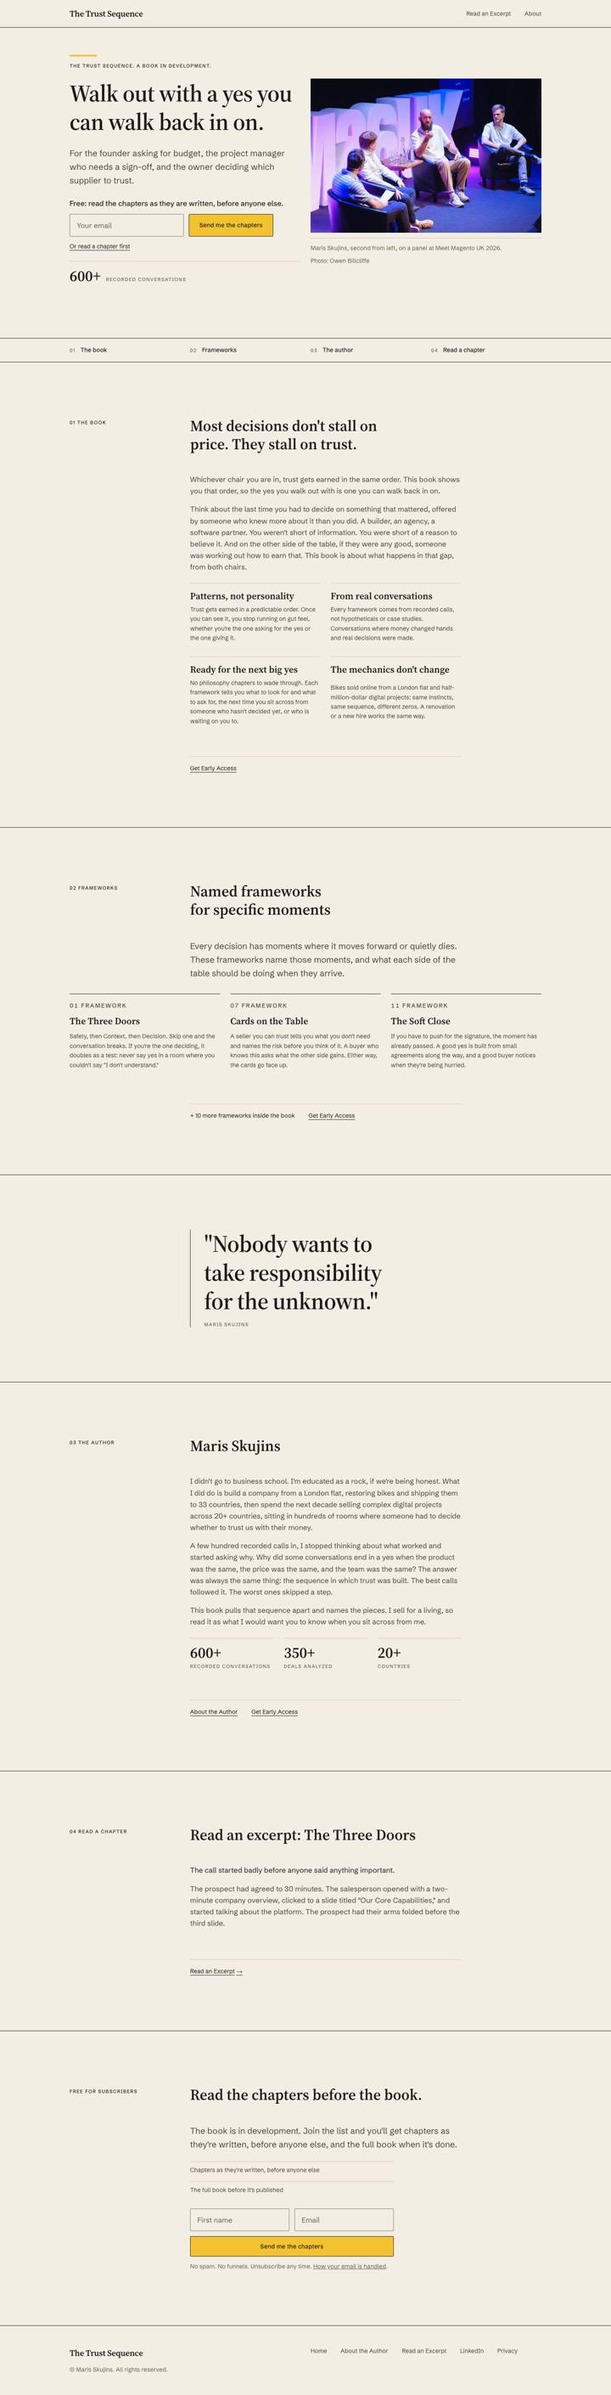
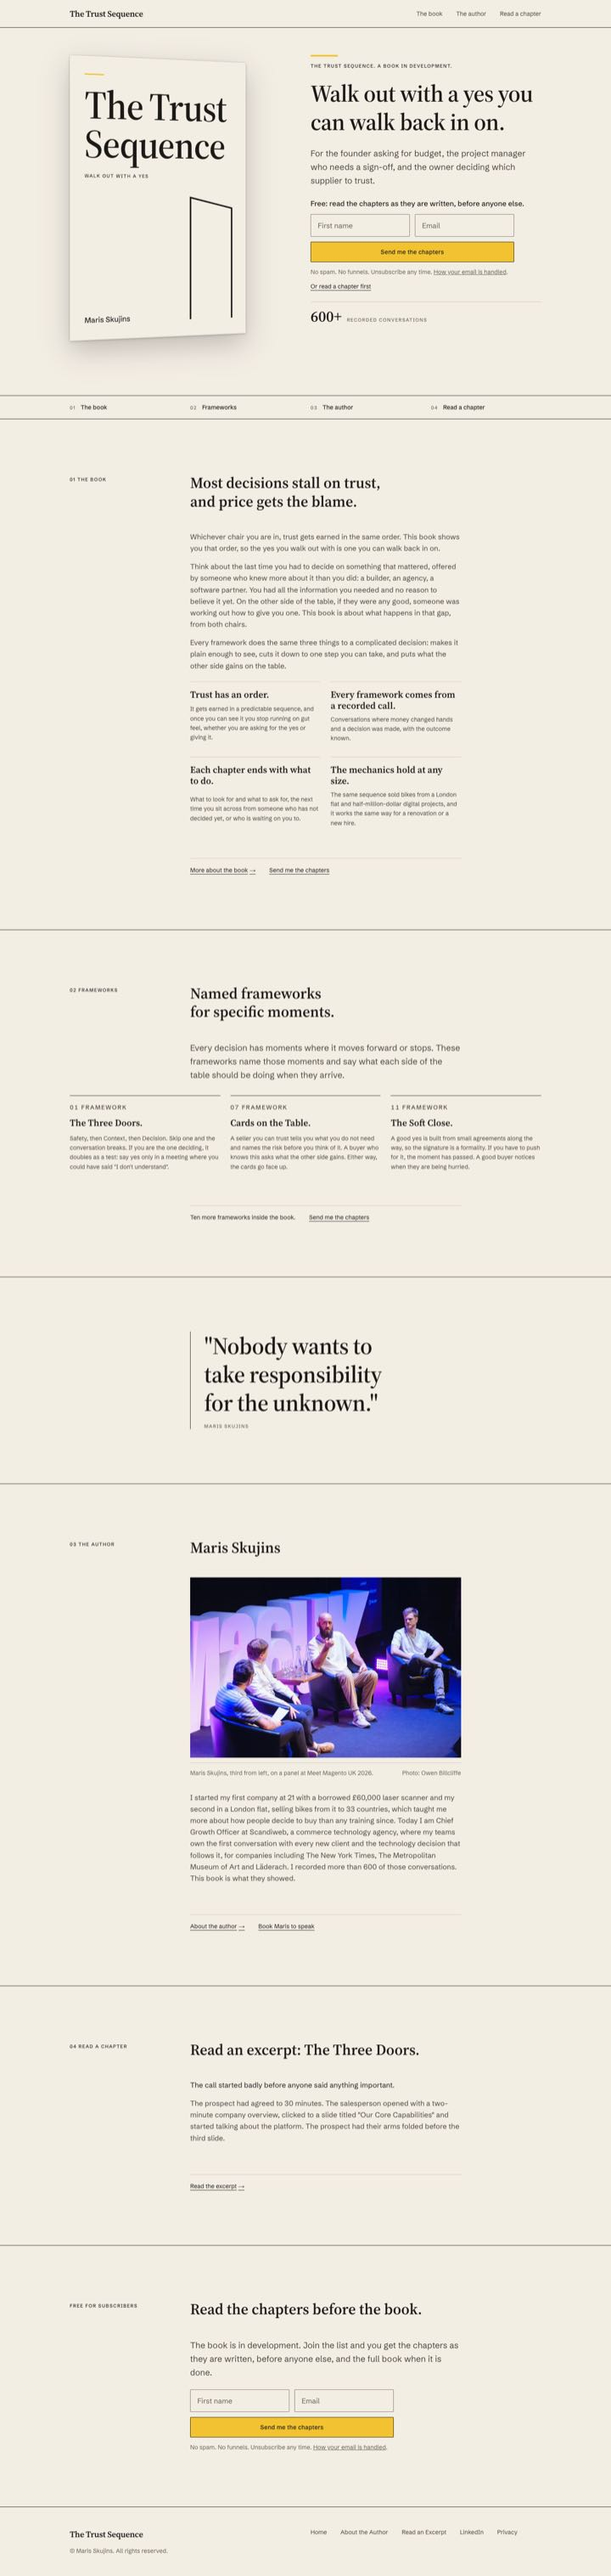
Brandbook and README for the cover; PR screenshots
The brandbook's cover placeholder becomes the cover's spec, with the
two exceptions it needs (the ink ground inside the OG image and the
LinkedIn post, and the shadow under the 3D cover) and the new column
spans. README: how to change the cover. Home screenshots updated,
book page screenshots added.

diff --git a/design/brandbook.md b/design/brandbook.md
@@ -28,7 +28,7 @@ References: Monocle magazine and Danish design. Not the old-school author-site l
 
 Every text colour passes WCAG AA (4.5:1) on paper and on paper-alt. Field borders pass the 3:1 rule for interface parts.
 
-**The accent is signal yellow, used for two things only:** the primary button and one rule (4 by 64 px) above the first label on a page. Yellow on cream is low in contrast, so the button always carries a 1 px ink border, which gives it a visible edge (15:1) and a printed look. The label on the button is ink. The accent never colours text, links, icons, backgrounds or a second kind of button. A page may repeat the primary button where a second form appears (the hero and the foot of the page), never twice in one view.
+**The accent is signal yellow, used for two things only:** the primary button and one rule (4 by 64 px) above the first label on a page. Yellow on cream is low in contrast, so the button always carries a 1 px ink border, which gives it a visible edge (15:1) and a printed look. The label on the button is ink. The accent never colours text, links, icons, backgrounds or a second kind of button. The book cover carries its own accent rule; on a page the cover is an object, like a photograph, so its rule does not count as the page's one. A page may repeat the primary button where a second form appears (the hero and the foot of the page), never twice in one view.
 
 ## Type
 
@@ -69,7 +69,7 @@ Headlines in sentence case. Labels are the only capitals. No decorative italics;
 
 Breakpoints are 600, 960 and 1280 px. They are the only literal pixel values allowed outside `tokens.css`, because CSS cannot read variables inside media queries.
 
-Standard column spans from 960 px: section label 1 to 3, section headline and main column 4 to 10, hero text 1 to 6, hero photo 7 to 12, prose 3 to 9. Mobile first: below 960 everything spans the full width in reading order, which is decided per section (text before photo in the hero, labels before content).
+Standard column spans from 960 px: section label 1 to 3, section headline and main column 4 to 10, home hero cover 1 to 5 and copy 7 to 12, page-head text 1 to 6 and photo 7 to 12, book page cover 1 to 3 beside the main column, prose 3 to 9. Mobile first: below 960 everything spans the full width in reading order, which is decided per section (cover before copy in the home hero, text before photo in a page head, labels before content). The cover is the one exception to full width: two of four columns on a phone, three of eight from 600 px, so it and the form both fit in the first screen and a half.
 
 Nothing is centred by default. Centre only by decision.
 
@@ -100,6 +100,7 @@ Current photograph: Meet Magento UK 2026, file 268, cropped above the event logo
 Caption: "Maris Skujins, third from left, on a panel at Meet Magento UK 2026."
 Credit: "Photo: Owen Billcliffe" (from the file's metadata).
 Files: `assets/meet-magento-uk-2026-panel-3x2.*` (3:2) and `assets/meet-magento-uk-2026-panel.*` (16:9).
+Used in section 03 The author on the home page and at the top of the about page.
 
 ## Components
 
@@ -120,6 +121,8 @@ Files: `assets/meet-magento-uk-2026-panel-3x2.*` (3:2) and `assets/meet-magento-
 **Framework card.** No box. Ink rule on top, "07 Framework" as a label with the book's own number, the name in the serif, the description at `--size-small` in ink soft. Three across from 600 px.
 
 **Quote.** Left-aligned, 1 px ink rule on the left, the serif at h1 (or h2 inside prose), attribution as a muted label. No quotation-mark graphics.
+
+**Book cover.** The flat image rendered from `templates/cover.html`, turned toward the copy with CSS (`--cover-turn`, 12 degrees, and `--cover-perspective`) and given the system's only shadow (`--cover-shadow`), which also gives the paper cover an edge against the paper page. In 3D in the home hero and beside "Why I wrote it" on the book page; flat wherever the cover is small. Not on the about page, where the photograph does the work.
 
 **Proof number.** The number in the serif at h2 with its label, a hairline above.
 
@@ -148,7 +151,7 @@ The site's nav and footer set the wordmark as live text in the same font and wei
 
 ## Audience templates
 
-`templates/` holds the weekly assets: LinkedIn carousel page (1080 by 1350), quote card (1080 by 1080), podcast promo (1920 by 1080), and the site's OG image (1200 by 630). Each carries the wordmark, the system type and the one accent rule. Render them all with `design/templates/render.sh`; see `README.md` for custom copy.
+`templates/` holds the weekly assets: LinkedIn carousel page (1080 by 1350), quote card (1080 by 1080), podcast promo (1920 by 1080), the site's OG image (1200 by 630), and the cover with its LinkedIn post (1080 by 1350). Each carries the system type and the one accent rule; the carousel, quote card and podcast promo carry the wordmark, and the OG image and the LinkedIn post carry the cover instead. Render them all with `design/templates/render.sh`; see `README.md` for custom copy.
 
 ## Email
 
@@ -156,16 +159,25 @@ The site's nav and footer set the wordmark as live text in the same font and wei
 
 ## Forbidden
 
-- Dark grounds
+- Dark grounds, except the cover's ink version, which appears only inside the OG image and the LinkedIn post
 - The accent on a dark ground
 - Centred layouts by default
 - Decorative italics
 - Gradients
-- Drop shadows
+- Drop shadows, except the one under the 3D cover
 - A second accent, or the accent used for decoration
 - Full-bleed photographs, or photographs without a caption and credit
 - Em dashes in any copy
 
-## Cover and interior
+## Cover
 
-Later. The cover and interior will use this system: one flat colour, one object, the serif title, legible at 80 px wide. This section is a placeholder until that work starts.
+A mock cover, so the site reads as a book site until the publisher or a designer makes the real one in 2027, with this section as the brief. The rule: one flat colour, one object, the serif title, legible at 80 px wide.
+
+- **Source.** `templates/cover.html`, a 600 by 900 canvas (6 by 9, trade paperback), rendered at 3x to 1800 by 2700. Every colour and font comes from `tokens.css`.
+- **Front.** The title in the serif, set large and broken where the words break, "The Trust / Sequence". The subtitle as a tracked label. The author at the foot. The accent rule above the title, and nothing else: no tagline, no numbers, no blurb. Those live on the site.
+- **Variants.** b is the cover, chosen on 10 October 2026: the type plus a door, slightly open, drawn as three straight lines and standing on the author's baseline. The Three Doors is framework 01 and the excerpt, so the door says the book's first idea without a word. a, type only, stays in `cover.html` as the fallback: if the door ever reads as a logo or clip art, ship a. `data-variant` in `cover.html` picks the one the site shows.
+- **Grounds.** Paper is the default and the only one on the site. Ink, with paper type, is for dark settings: the OG image and the LinkedIn post. The accent stays off a dark ground, so on ink the rule is paper.
+- **Outputs.** `render.sh cover` writes the flat cover in both variants and both grounds, the site's 600 and 1200 px images, the OG image (the ink cover on the left third, the headline on the right) and the LinkedIn post. See `README.md`.
+- **Checked.** The title reads at 80 px wide on a light and a dark feed, in both grounds.
+
+The interior will use this system too. That work has not started.

diff --git a/design/README.md b/design/README.md
@@ -5,12 +5,12 @@ The Trust Sequence design system: warm paper, Monocle, one yellow accent.
 | File | What it is | Published on the site? |
 |---|---|---|
 | `tokens.css` | The single source of every colour, size, font and spacing value | Yes, the site loads it |
-| `assets/` | The cropped Meet Magento UK 2026 photo (3:2 and 16:9, jpg and webp, full and 800 px). Photo: Owen Billcliffe | Yes |
+| `assets/` | The cropped Meet Magento UK 2026 photo (3:2 and 16:9, jpg and webp, full and 800 px). Photo: Owen Billcliffe. The book cover at 600 and 1200 px, rendered from `templates/cover.html` | Yes |
 | `wordmark.svg` | "The Trust Sequence" outlined in Source Serif 4 at 600 | Yes |
 | `specimen.html` | Every token and component, rendered with the site's own stylesheets | No |
 | `brandbook.md` | The rules: what each token is for, and what is forbidden | No |
 | `email-template.html` | The email layout for MailerLite | No |
-| `templates/` | Carousel page, quote card, podcast promo, OG image, and the render script | No |
+| `templates/` | The book cover, its LinkedIn post, carousel page, quote card, podcast promo, OG image, and the render script | No |
 
 The unpublished files are listed under `exclude` in `/_config.yml`.
 
@@ -50,7 +50,21 @@ It should print nothing.
 design/templates/render.sh
 ```
 
-This renders all four templates to `design/templates/out/` with headless Chrome and copies the OG image to `/og-image.png`. Fonts come from `/fonts`, so it works offline.
+This renders every template to `design/templates/out/` with headless Chrome, copies the OG image to `/og-image.png` and the site's cover images to `design/assets/`. Fonts come from `/fonts`, so it works offline.
+
+## Changing the cover
+
+The cover is `templates/cover.html`, one HTML file on a 600 by 900 canvas. The flat cover (1800 by 2700), the site's cover images, the OG image and the LinkedIn post are all rendered from it, so a change to the cover is an edit to that file and one command:
+
+```bash
+design/templates/render.sh cover
+```
+
+Then commit `design/assets/the-trust-sequence-cover-*.png` and `og-image.png`. The 3D cover on the site is the flat image turned with CSS, so it needs no render of its own.
+
+The cover comes in two variants, b (with the door, the chosen cover) and a (type only, the fallback), and two grounds, paper and ink. `data-variant` and `data-ground` on the `<html>` tag of `cover.html` set what the site shows; the render also writes all four to `out/` (`cover-a.png`, `cover-b-ink.png` and so on) for comparing. To see one in a browser, open `cover.html?variant=a&ground=ink`.
+
+When the real cover arrives, replace the contents of `cover.html` with it (an `<img>` of the designer's file is enough) and render again.
 
 To render one template with your own copy, pass its name and a query string:
 
@@ -65,7 +79,9 @@ Fields per template:
 | `carousel` | 1080 by 1350 | `page`, `label`, `title`, `body`, `footer` |
 | `quote` | 1080 by 1080 | `quote`, `cite` |
 | `podcast` | 1920 by 1080 | `date`, `show`, `title`, `body`, `caption`, `footer` |
-| `og` | 1200 by 630 | none; edit `og.html` |
+| `og` | 1200 by 630 | none; edit `og.html`. Rendered with the cover, since it shows it |
+| `cover` | 600 by 900, rendered at 1800 by 2700 | `variant` (a or b), `ground` (paper or ink); see Changing the cover |
+| `cover-linkedin` | 1080 by 1350 | none; edit `cover-linkedin.html`. Rendered with the cover |
 
 Write any new copy in the write-like-maris voice. No em dashes.
 
